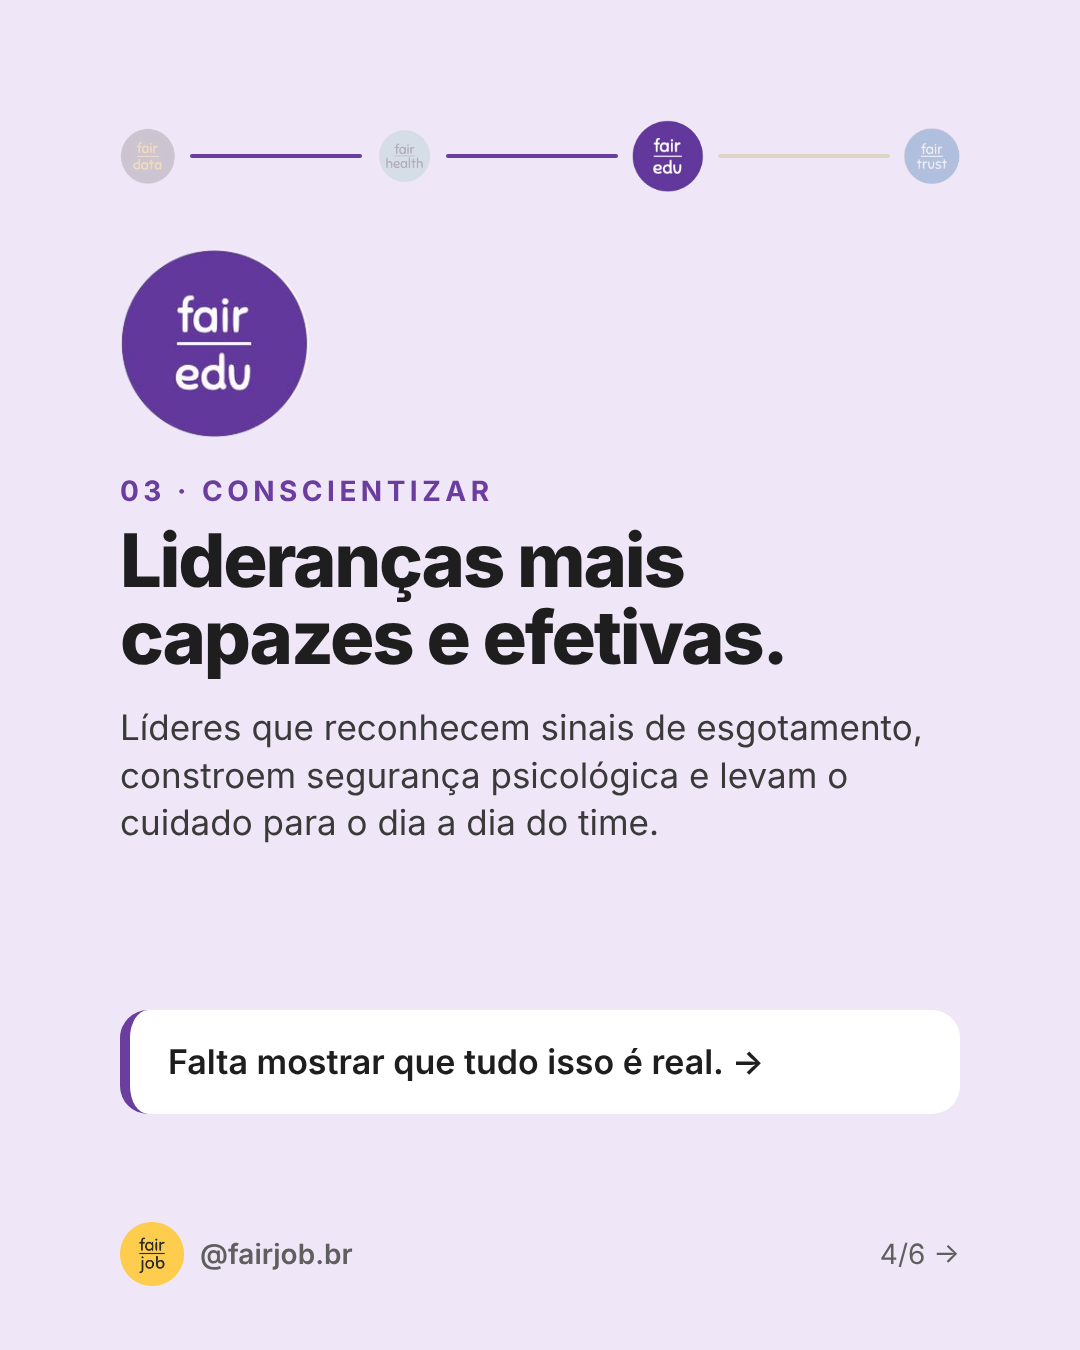
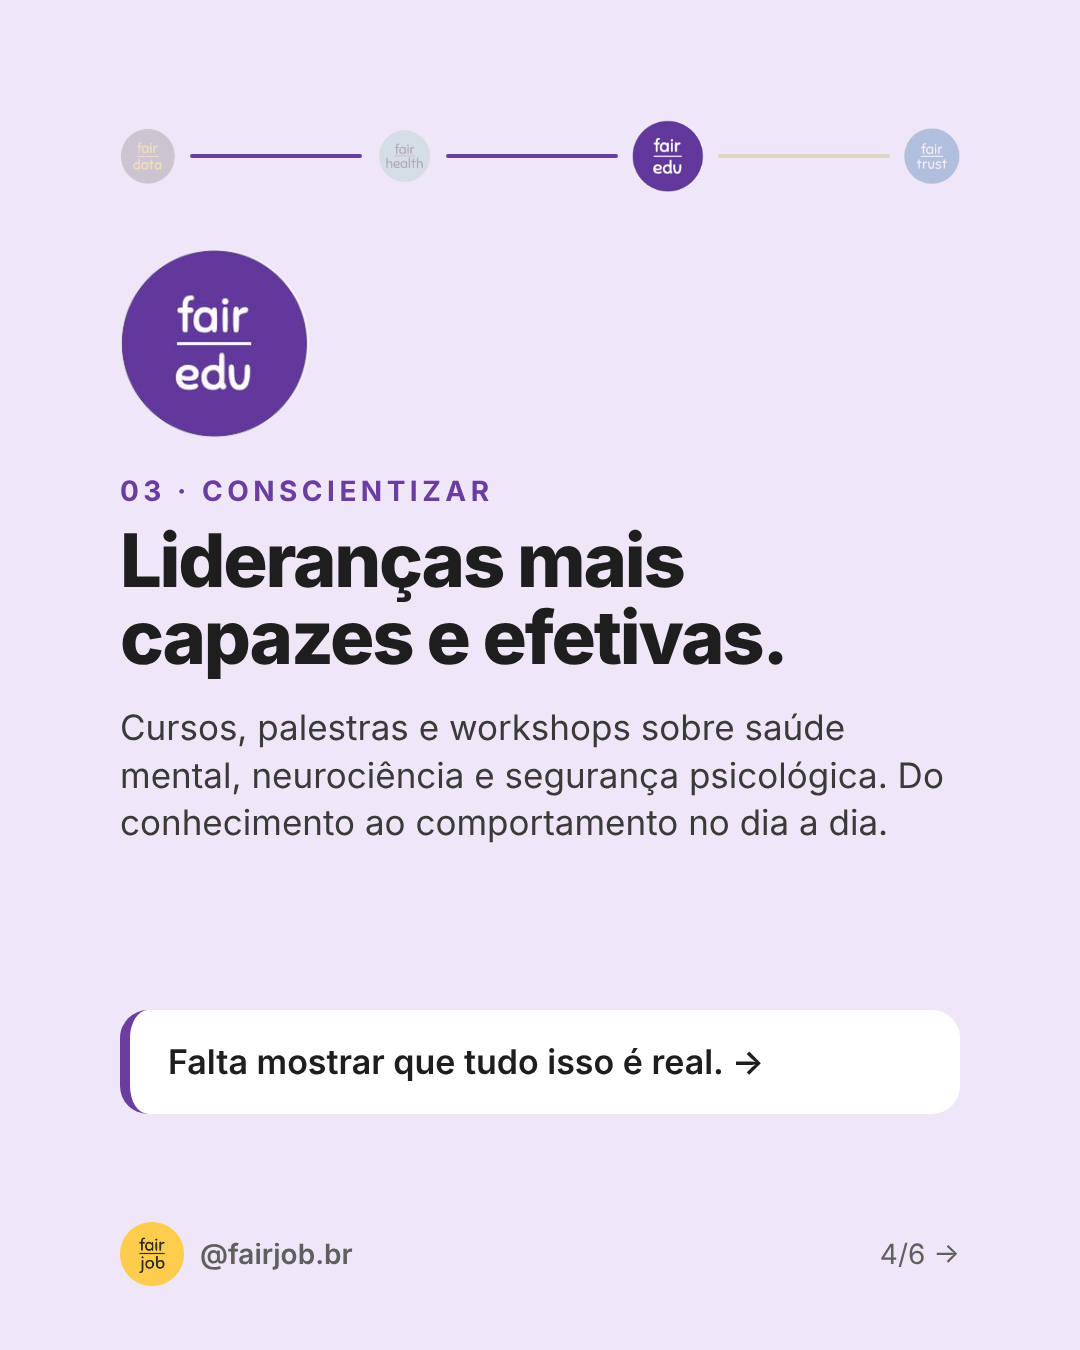
Carousel 01: fairedu slide names the product (cursos, palestras, workshops)
Claude-Session: https://claude.ai/code/session_01BNRZX6VSYKwV1xCbt1XY1x

Changed region(s): [[0.1222, 0.5289, 0.8861, 0.6222]]

diff --git a/posts/01-ecossistema/carrossel.html b/posts/01-ecossistema/carrossel.html
@@ -148,7 +148,7 @@
   <img class="logo" src="../assets/logos/fairedu.png" alt="fairedu">
   <div class="etapa">03 · Conscientizar</div>
   <h2>Lideranças mais capazes e efetivas.</h2>
-  <p class="texto">Líderes que reconhecem sinais de esgotamento, constroem segurança psicológica e levam o cuidado para o dia a dia do time.</p>
+  <p class="texto">Cursos, palestras e workshops sobre saúde mental, neurociência e segurança psicológica. Do conhecimento ao comportamento no dia a dia.</p>
   <div class="ponte">Falta mostrar que tudo isso é real. →</div>
   <div class="rodape"><div class="marca"><img src="../assets/logos/fairjob.png" alt="">@fairjob.br</div><div>4/6 →</div></div>
 </section>

diff --git a/.claude/instagram/voice.md b/.claude/instagram/voice.md
@@ -6,8 +6,9 @@ Itens marcados **[A CONFIRMAR]** não estavam nas fontes e precisam de resposta.
 
 **Idioma de todo o conteúdo: português do Brasil.**
 
-**Regra de conteúdo:** sempre falar do **efeito** do que entregamos, não da
-ferramenta. A entrega mais importante de cada marca:
+**Regra de conteúdo:** sempre falar do **efeito** do que entregamos, e ao
+mesmo tempo mostrar com clareza **qual é o produto** (ex.: cursos, palestras
+e workshops; Escritório do Cuidado; auditoria e acreditação). A entrega mais importante de cada marca:
 - **FairData:** o plano de ação. A cadeia é pesquisa → relatório → plano de
   ação; o efeito é a empresa saber o que fazer primeiro.
 - **FairHealth:** o cuidado com o colaborador.
